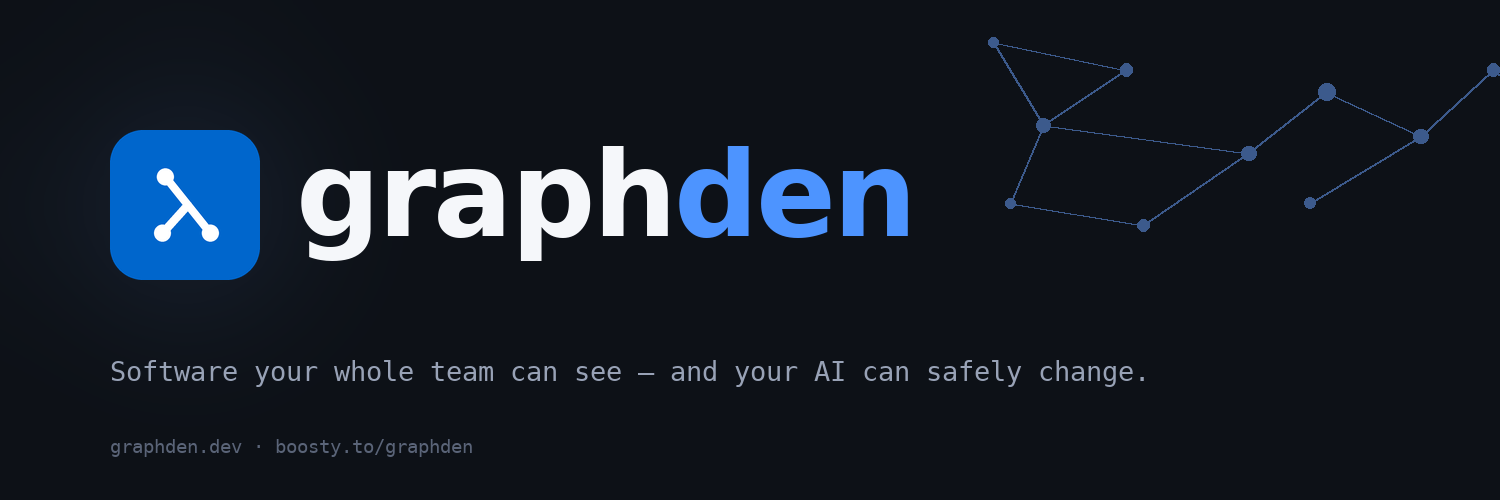
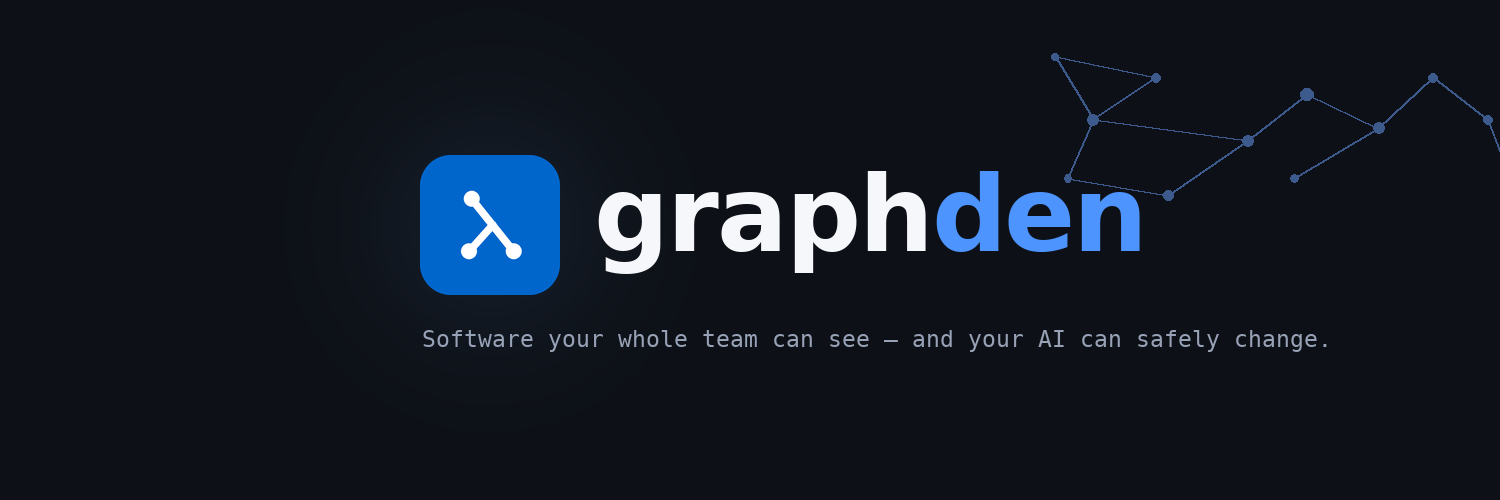
docs(brand): redesign the Boosty cover for its real ~5.9:1 display crop
Boosty shows only the middle band of the 1500x500 cover and overlays the
round avatar bottom-left; the footer line is dropped, the lockup moved
into the visible band with the avatar zone left clear.

Claude-Session: https://claude.ai/code/session_01EdEAjbYhS7AD4VgjWrCp3r

diff --git a/docs/brand/gen_banners.py b/docs/brand/gen_banners.py
@@ -115,6 +115,28 @@ def dark_banner(w, h, tile_size, tile_xy, wm_size, wm_dxy, tag_size, tag_y,
     print(out)
 
 
+def boosty(out):
+    """Boosty cover, 1500x500 — but Boosty DISPLAYS it as a ~5.9:1 strip
+    (only the middle band, roughly y 120..390, is visible on desktop) and
+    overlays the round avatar on the bottom-left. So: no footer, all
+    content inside the middle band, and x < ~400 left clear."""
+    w, h = 1500, 500
+    im = Image.new("RGBA", (w, h), INK + (255,))
+    d = ImageDraw.Draw(im, "RGBA")
+    backdrop(d, CONST_NODES, CONST_EDGES, (60, 90, 140), 110, 55,
+             scale=0.42, dx=1030, dy=40)
+    tile = 140
+    tx, ty = 420, 155
+    glow(im, tx + tile / 2, ty + tile / 2, tile * 1.1, (120, 170, 255), 26)
+    im.alpha_composite(rounded_tile(tile), (tx, ty))
+    d = ImageDraw.Draw(im, "RGBA")
+    wordmark(d, tx + tile + 34, ty - 2, 105, LIGHT_TEXT, BLUE_LIGHT)
+    fm = ImageFont.truetype(MONO, 23)
+    d.text((tx + 2, 325), TAGLINE, font=fm, fill=MUTED)
+    im.convert("RGB").save(out)
+    print(out)
+
+
 def youtube(out):
     w, h = 2560, 1440
     im = light_gradient(w, h)
@@ -171,9 +193,7 @@ def org_profile(dark, out):
 if __name__ == "__main__":
     import sys
     outdir = sys.argv[1] if len(sys.argv) > 1 else "."
-    dark_banner(1500, 500, 150, (110, 130), 118, (36, -4), 27, 355,
-                "graphden.dev · boosty.to/graphden", 435,
-                f"{outdir}/gd-banner-boosty.png")
+    boosty(f"{outdir}/gd-banner-boosty.png")
     dark_banner(1280, 640, 150, (96, 200), 118, (36, -4), 24, 420,
                 "graphden.dev", 560,
                 f"{outdir}/gd-social-preview.png")
